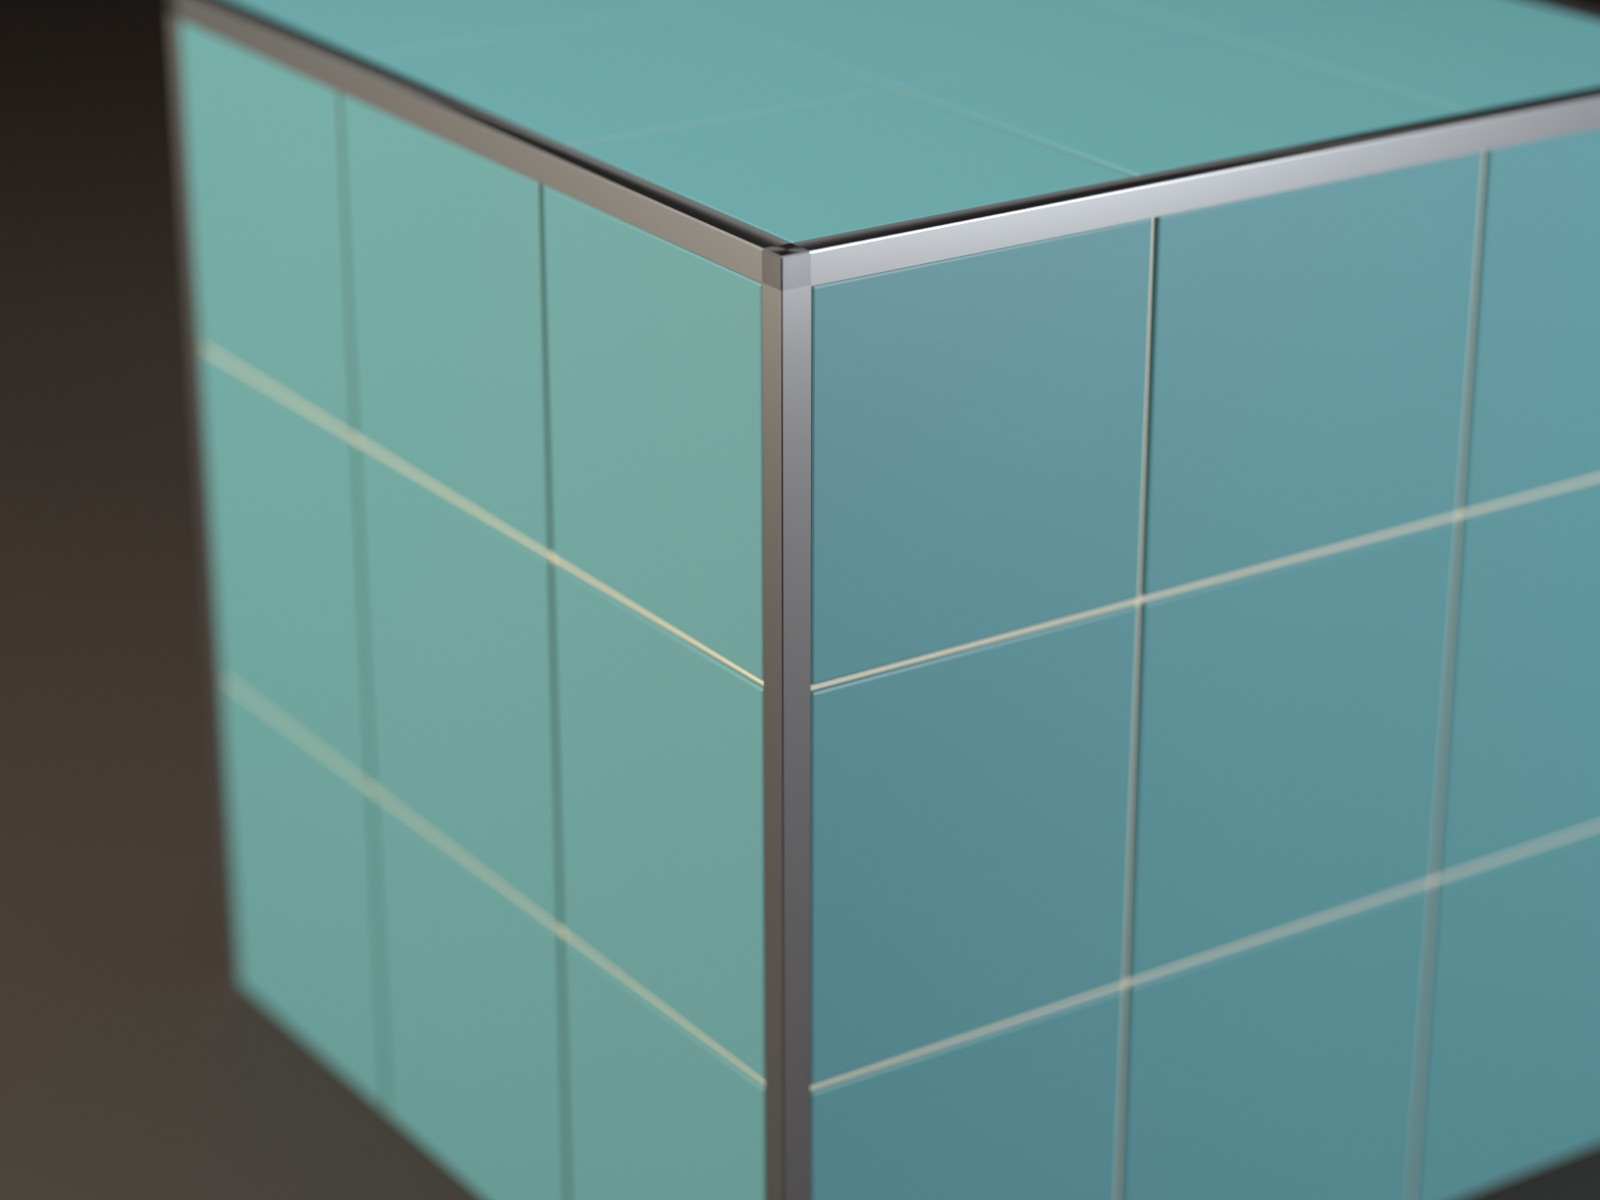
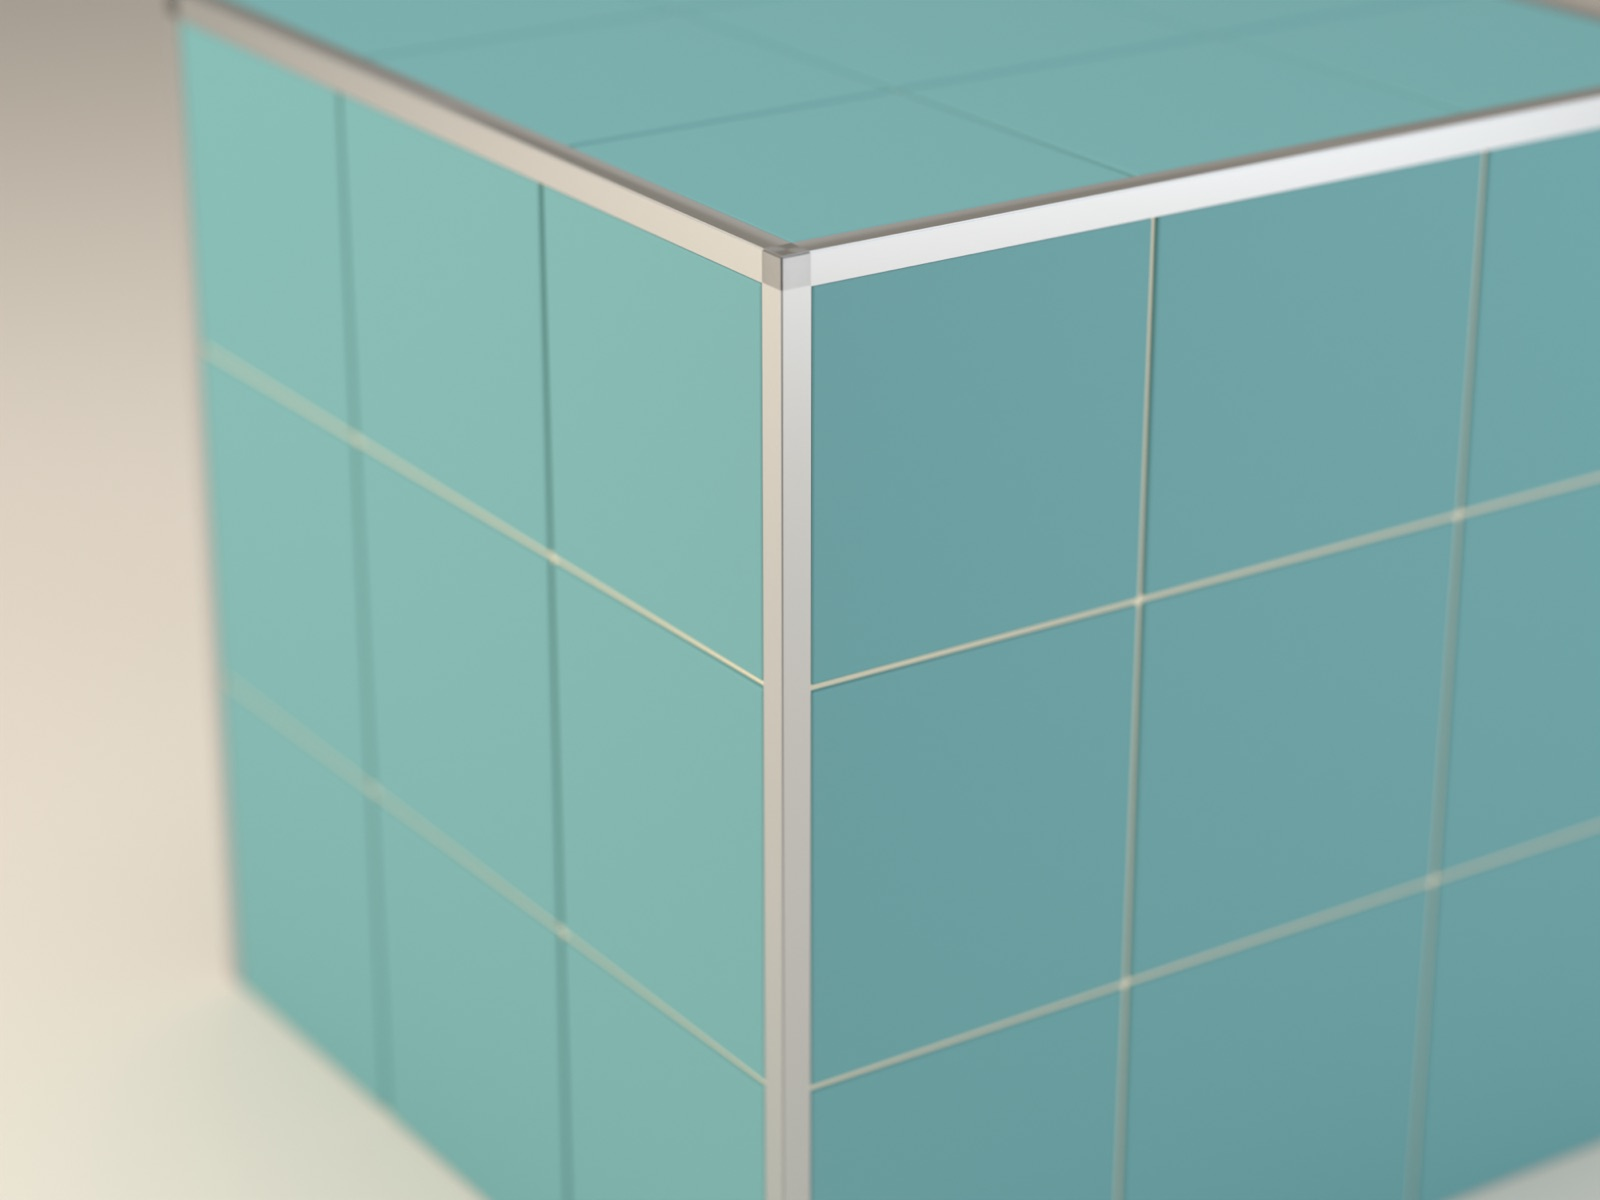
Ecken-Abschnitt: heller Grund, seidenmatte Glasur, helles Band

diff --git a/index.html b/index.html
@@ -648,23 +648,23 @@ h3 { line-height: 1.1; }
 /* ===== Vorher/Nachher-Regler Gehrung (G2, 13.11.2026) ===== */
 /* Ecken-Regler (14.11.2026): vier Makros, weich überblendet, Regler mit vier Rastpunkten */
 .ecken { display: grid; gap: 14px; }
-.ecken-pic { position: relative; aspect-ratio: 4 / 3; overflow: hidden; border-radius: var(--r); background: #1E1A17; }
+.ecken-pic { position: relative; aspect-ratio: 4 / 3; overflow: hidden; border-radius: var(--r); background: #ECE8E1; }
 .ecken-pic img { position: absolute; inset: 0; width: 100%; height: 100%; object-fit: cover; display: block; opacity: 0; transition: opacity .7s ease; }
 .ecken-pic img.on { opacity: 1; }
-.ecken-cap { position: absolute; left: 0; right: 0; bottom: 0; margin: 0; padding: 40px 20px 16px; font-size: 15px; line-height: 1.4; color: #F2F1ED; background: linear-gradient(to top, rgba(18,15,13,.72), rgba(18,15,13,0)); }
+.ecken-cap { position: absolute; left: 0; right: 0; bottom: 0; margin: 0; padding: 40px 20px 16px; font-size: 15px; line-height: 1.4; color: #111; background: linear-gradient(to top, rgba(240,237,231,.92), rgba(240,237,231,0)); }
 .ecken-track { position: relative; padding-top: 14px; }
-.ecken-line { position: absolute; top: 14px; left: 12.5%; right: 12.5%; height: 1px; background: rgba(242,241,237,.28); }
-.ecken-line i { position: absolute; top: 50%; left: calc(var(--k, 0) * 100% / 3); width: 18px; height: 18px; margin: -9px 0 0 -9px; border-radius: 50%; background: #F2F1ED; box-shadow: 0 0 0 5px rgba(242,241,237,.14); transition: left .45s cubic-bezier(.3,.7,.2,1); }
+.ecken-line { position: absolute; top: 14px; left: 12.5%; right: 12.5%; height: 1px; background: rgba(17,17,17,.18); }
+.ecken-line i { position: absolute; top: 50%; left: calc(var(--k, 0) * 100% / 3); width: 18px; height: 18px; margin: -9px 0 0 -9px; border-radius: 50%; background: #111; box-shadow: 0 0 0 5px rgba(17,17,17,.07); transition: left .45s cubic-bezier(.3,.7,.2,1); }
 .ecken-stops { list-style: none; margin: 0; padding: 22px 0 0; display: grid; grid-template-columns: repeat(4, minmax(0, 1fr)); }
 .ecken-stops li { text-align: center; position: relative; }
-.ecken-stops li::before { content: ""; position: absolute; top: -12px; left: 50%; width: 7px; height: 7px; margin-left: -3.5px; border-radius: 50%; background: rgba(242,241,237,.45); }
+.ecken-stops li::before { content: ""; position: absolute; top: -12px; left: 50%; width: 7px; height: 7px; margin-left: -3.5px; border-radius: 50%; background: rgba(17,17,17,.28); }
 .ecken-stops li.ours::before { background: var(--green); }
-.ecken-stops button { position: relative; z-index: 2; background: none; border: 0; padding: 4px 2px; font: 500 13px/1.25 var(--body); color: rgba(242,241,237,.6); cursor: pointer; }
+.ecken-stops button { position: relative; z-index: 2; background: none; border: 0; padding: 4px 2px; font: 500 13px/1.25 var(--body); color: rgba(17,17,17,.52); cursor: pointer; }
 .ecken-stops button small { display: block; font-size: 11px; letter-spacing: .06em; text-transform: uppercase; opacity: .75; margin-top: 2px; }
-.ecken-stops button[aria-pressed="true"] { color: #F2F1ED; }
+.ecken-stops button[aria-pressed="true"] { color: #111; }
 .ecken-stops button:focus-visible { outline: 2px solid var(--green); outline-offset: 2px; border-radius: 4px; }
 .ecken-range { position: absolute; top: 0; left: 0; width: 100%; height: 30px; margin: 0; opacity: 0; cursor: ew-resize; z-index: 1; }
-.ecken .cmp-hint { display: flex; align-items: center; gap: 8px; margin: 2px 0 0; }
+.ecken .cmp-hint { display: flex; align-items: center; gap: 8px; margin: 2px 0 0; color: #6B6E70; }
 .ours-dot { width: 7px; height: 7px; border-radius: 50%; background: var(--green); flex: none; }
 .miter-text h2 { margin: 0 0 4px; }
 @media (max-width: 560px) { .ecken-stops button { font-size: 12px; } .ecken-cap { font-size: 14px; padding: 32px 14px 12px; } }
@@ -773,7 +773,7 @@ main > .sec:not(.band):not(.dark) + .sec:not(.band):not(.dark) > .max::before { 
     </div>
   </div>
 
-  <section class="sec gut band dark">
+  <section class="sec gut band">
     <div class="max" style="display:grid;gap:28px">
       <!-- Ecken-Abschnitt neu (14.11.2026, Florian): vier Arten einer Außenecke, Regler mit vier Rastpunkten; ohne Seitenhiebe -->
       <div class="miter" id="gehrung">
